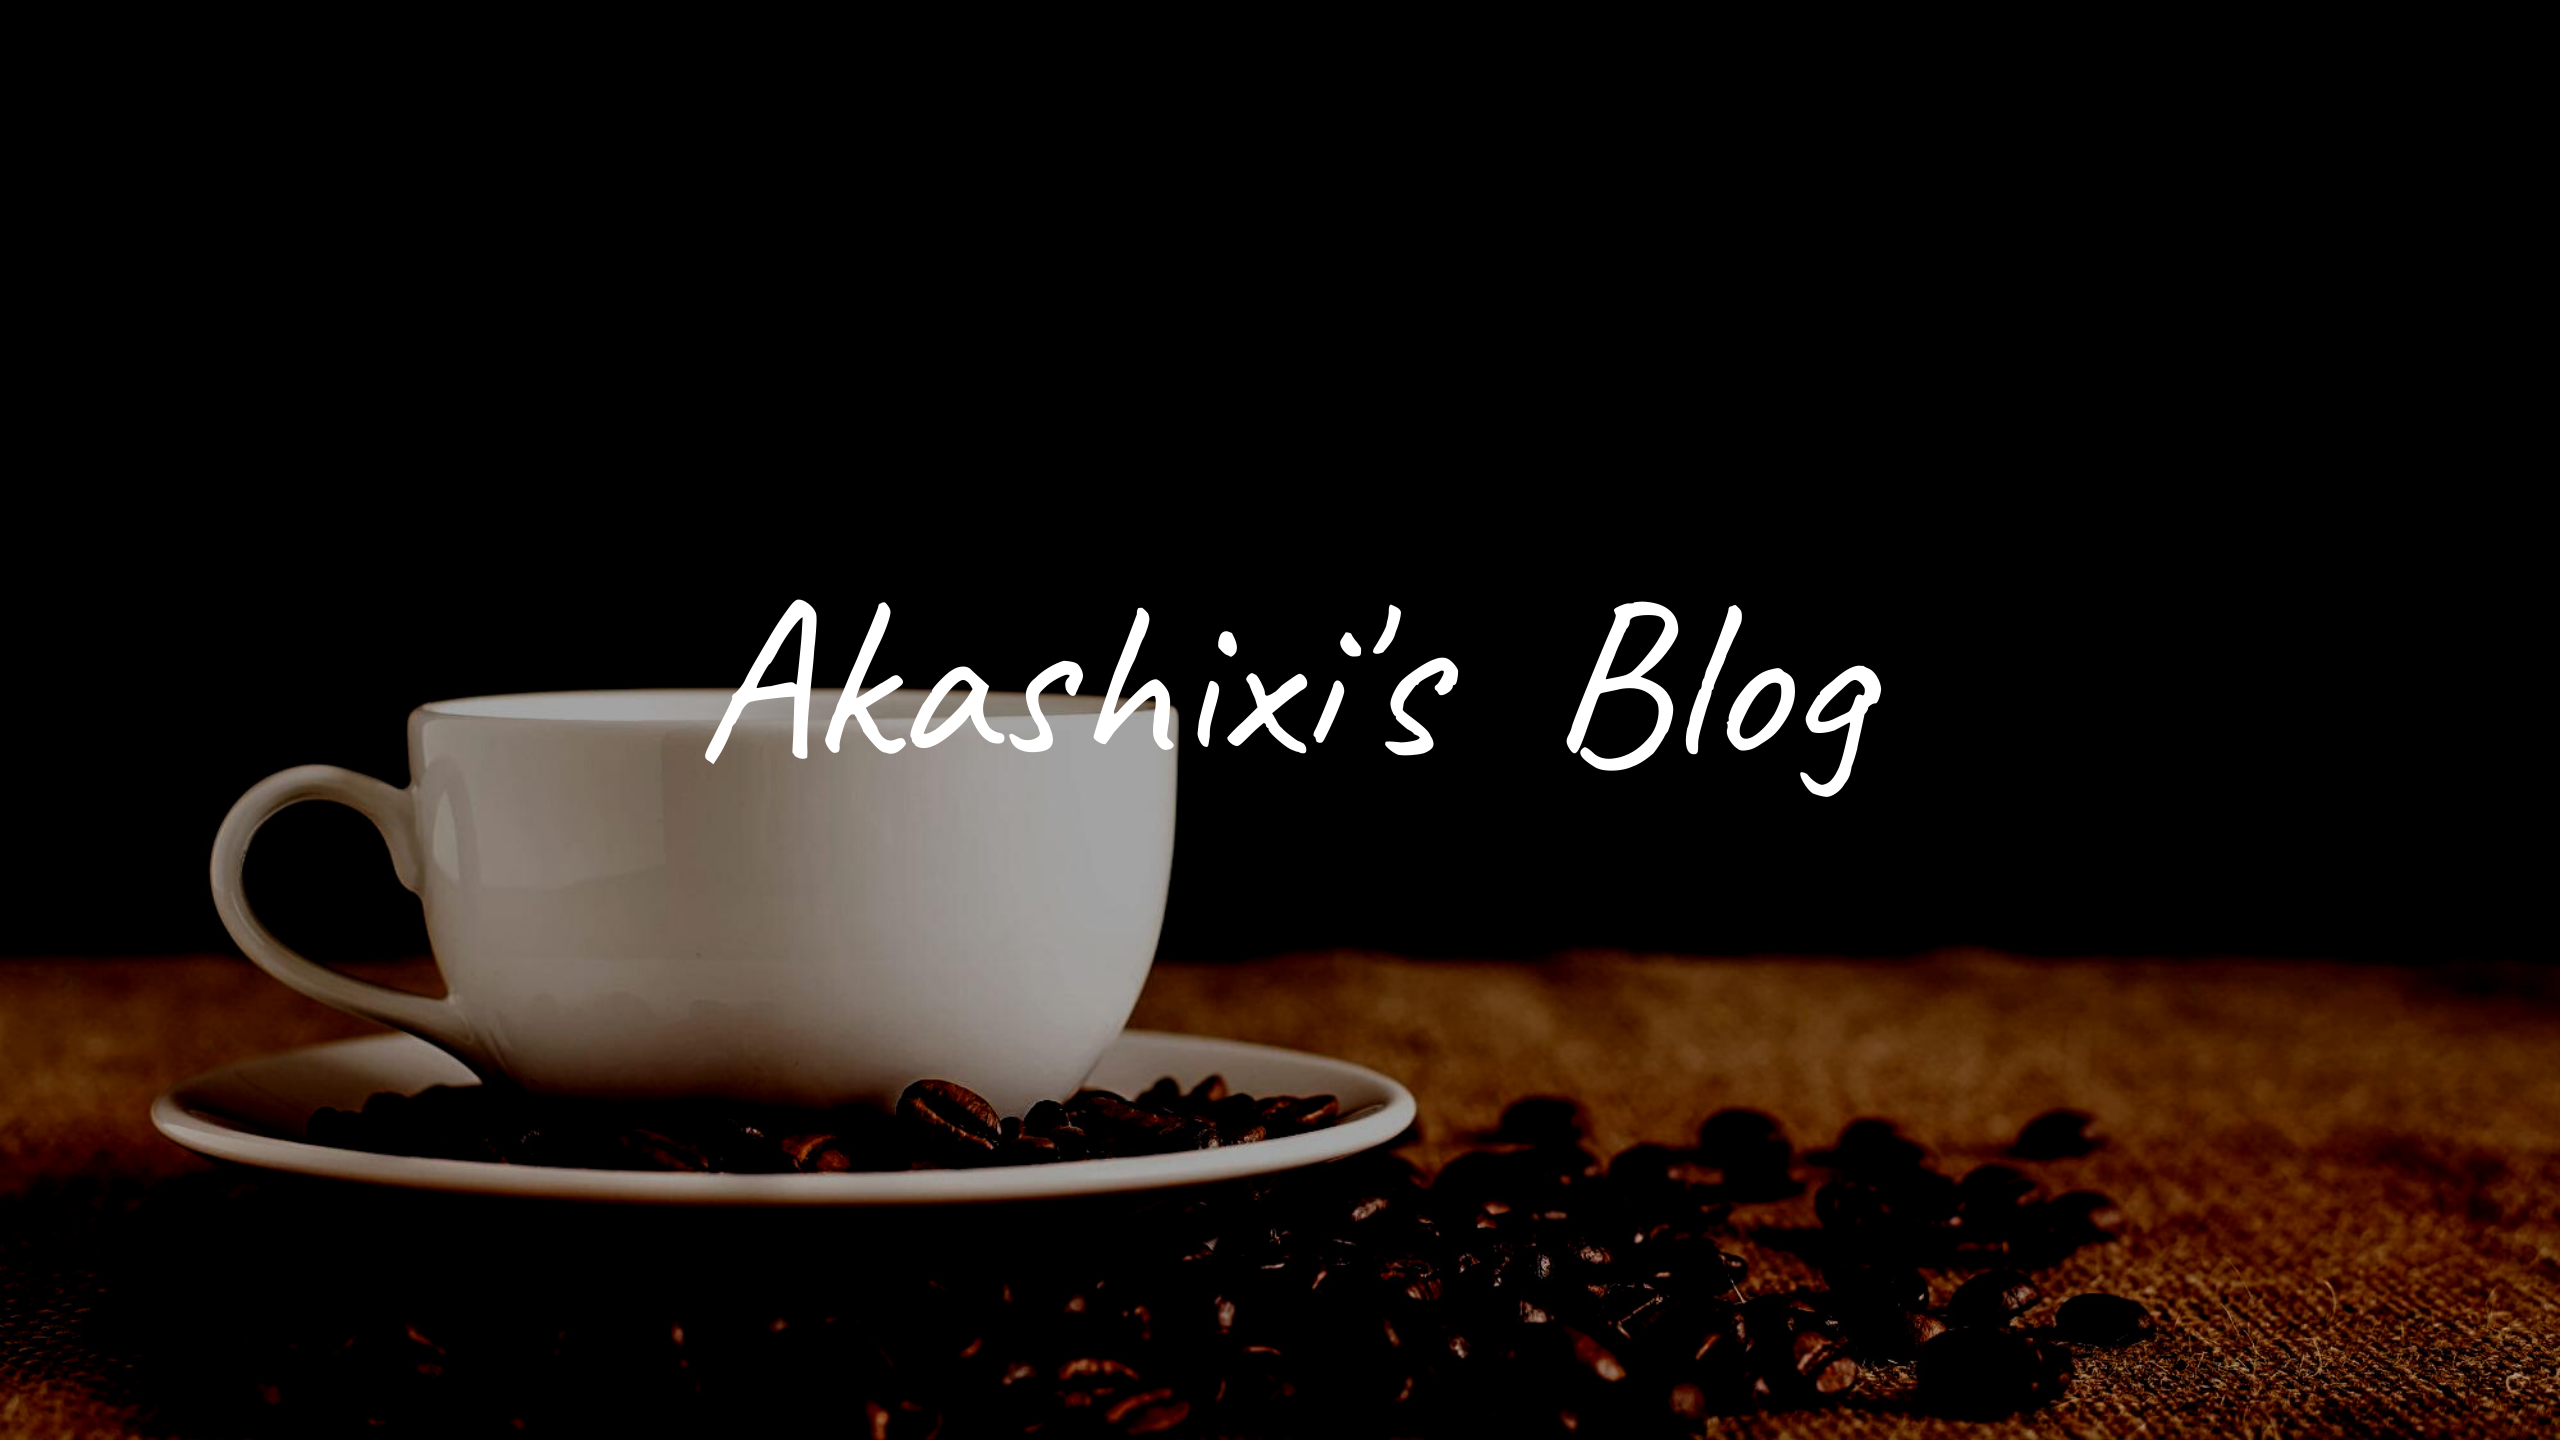
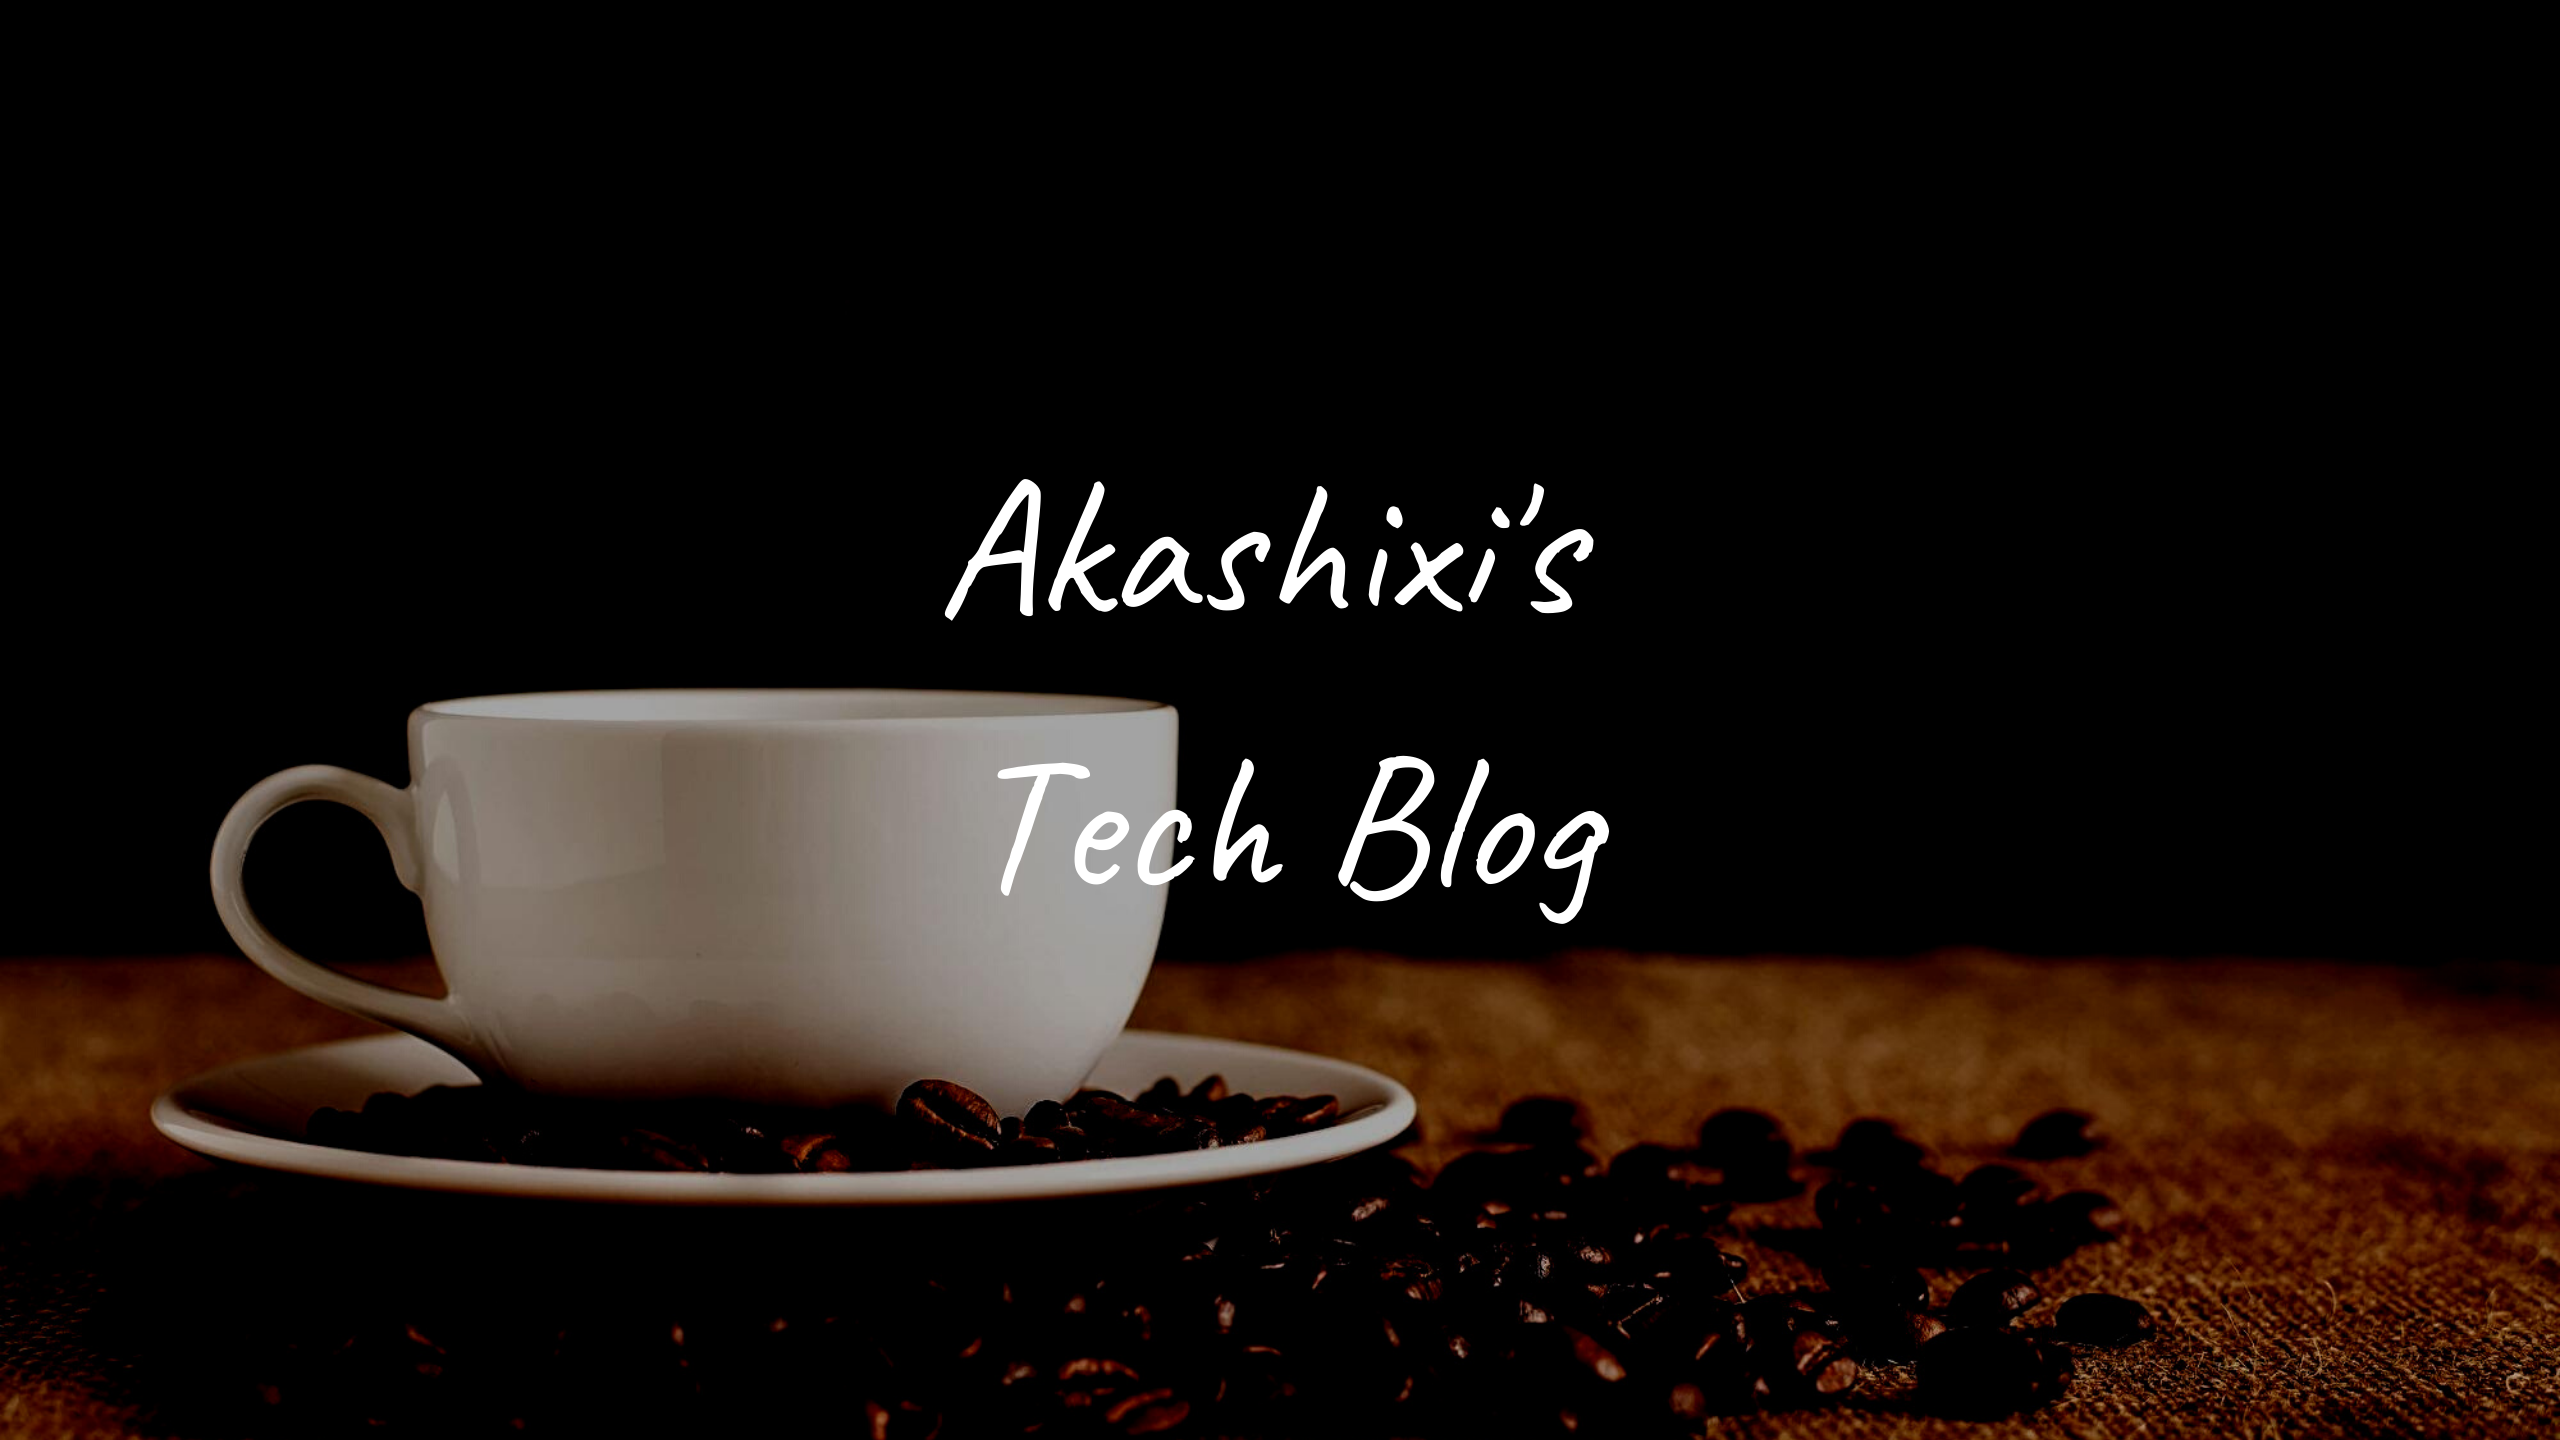
refactor

Changed region(s): [[0.2812, 0.3438, 0.75, 0.6562]]

diff --git a/types/graphql-types.d.ts b/types/graphql-types.d.ts
@@ -3864,8 +3864,6 @@ export type QuerySiteArgs = {
   siteMetadata?: Maybe<SiteSiteMetadataFilterInput>,
   port?: Maybe<IntQueryOperatorInput>,
   host?: Maybe<StringQueryOperatorInput>,
-  polyfill?: Maybe<BooleanQueryOperatorInput>,
-  pathPrefix?: Maybe<StringQueryOperatorInput>,
   buildTime?: Maybe<DateQueryOperatorInput>
 };
 
@@ -4069,8 +4067,6 @@ export type Site = Node & {
   siteMetadata?: Maybe<SiteSiteMetadata>,
   port?: Maybe<Scalars['Int']>,
   host?: Maybe<Scalars['String']>,
-  polyfill?: Maybe<Scalars['Boolean']>,
-  pathPrefix?: Maybe<Scalars['String']>,
   buildTime?: Maybe<Scalars['Date']>,
 };
 
@@ -4202,8 +4198,6 @@ export type SiteFieldsEnum =
   'siteMetadata___iconPath' |
   'port' |
   'host' |
-  'polyfill' |
-  'pathPrefix' |
   'buildTime';
 
 export type SiteFilterInput = {
@@ -4214,8 +4208,6 @@ export type SiteFilterInput = {
   siteMetadata?: Maybe<SiteSiteMetadataFilterInput>,
   port?: Maybe<IntQueryOperatorInput>,
   host?: Maybe<StringQueryOperatorInput>,
-  polyfill?: Maybe<BooleanQueryOperatorInput>,
-  pathPrefix?: Maybe<StringQueryOperatorInput>,
   buildTime?: Maybe<DateQueryOperatorInput>,
 };
 
@@ -4295,6 +4287,22 @@ export type SitePageContextPost = {
   image?: Maybe<SitePageContextPostImage>,
   publishedAt?: Maybe<Scalars['Date']>,
   updatedAt?: Maybe<Scalars['Date']>,
+};
+
+
+export type SitePageContextPostPublishedAtArgs = {
+  formatString?: Maybe<Scalars['String']>,
+  fromNow?: Maybe<Scalars['Boolean']>,
+  difference?: Maybe<Scalars['String']>,
+  locale?: Maybe<Scalars['String']>
+};
+
+
+export type SitePageContextPostUpdatedAtArgs = {
+  formatString?: Maybe<Scalars['String']>,
+  fromNow?: Maybe<Scalars['Boolean']>,
+  difference?: Maybe<Scalars['String']>,
+  locale?: Maybe<Scalars['String']>
 };
 
 export type SitePageContextPostCategory = {
@@ -4383,6 +4391,22 @@ export type SitePageContextPostsNode = {
   image?: Maybe<SitePageContextPostsNodeImage>,
   publishedAt?: Maybe<Scalars['Date']>,
   updatedAt?: Maybe<Scalars['Date']>,
+};
+
+
+export type SitePageContextPostsNodePublishedAtArgs = {
+  formatString?: Maybe<Scalars['String']>,
+  fromNow?: Maybe<Scalars['Boolean']>,
+  difference?: Maybe<Scalars['String']>,
+  locale?: Maybe<Scalars['String']>
+};
+
+
+export type SitePageContextPostsNodeUpdatedAtArgs = {
+  formatString?: Maybe<Scalars['String']>,
+  fromNow?: Maybe<Scalars['Boolean']>,
+  difference?: Maybe<Scalars['String']>,
+  locale?: Maybe<Scalars['String']>
 };
 
 export type SitePageContextPostsNodeCategory = {

diff --git a/src/templates/category.tsx b/src/templates/category.tsx
@@ -5,6 +5,7 @@ import { CategoryContext } from "../../gatsby-node"
 
 import Layout from "../components/Layout"
 import SEO from "../components/seo"
+import { HeadingH2 } from "../components/Atoms/Heading"
 import Breakpoint from "../components/GlobalStyle/breakpoint"
 import PostCard from "../components/PostCard"
 
@@ -24,6 +25,9 @@ const Category: React.FC<Props> = props => {
       title={props.pathContext.category.name}
     >
       <SEO title={props.pathContext.category.name} url={props.location.href} />
+      <StyledHeadingH2>
+        {props.pathContext.category.name}カテゴリの記事一覧
+      </StyledHeadingH2>
       <Posts>
         {props.pathContext.posts.map(post => {
           console.log(post)
@@ -45,6 +49,11 @@ const Category: React.FC<Props> = props => {
 }
 
 export default Category
+
+const StyledHeadingH2 = styled(HeadingH2)`
+  text-align: center;
+  margin-bottom: 40px;
+`
 
 const Posts = styled.div`
   display: flex;

diff --git a/src/pages/index.tsx b/src/pages/index.tsx
@@ -24,7 +24,7 @@ const IndexPage: React.FC<Props> = props => {
       pathname={props.path}
       title="トップページ"
     >
-      <SEO title="Home" url={props.location.href} />
+      <SEO title="Akashixi's tech blog" url={props.location.href} />
       <Posts>
         {props.data.allContentfulPost.edges.map(edge => {
           return (

diff --git a/gatsby-config.js b/gatsby-config.js
@@ -1,6 +1,6 @@
 module.exports = {
   siteMetadata: {
-    title: `Akashixi's Blog`,
+    title: `Akashixi's tech blog`,
     description: "日々の仕事の中で学んだ技術的知見を発信しているブログです。",
     author: "akashixi",
     iconPath:
